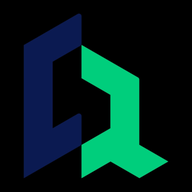
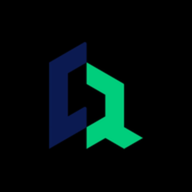
Add files via upload

Changed region(s): [[0.125, 0.0625, 0.875, 0.9375]]

diff --git a/empleados/index.html b/empleados/index.html
@@ -99,12 +99,89 @@ body{font-family:Arial,Helvetica,sans-serif;background:var(--fondo);color:var(--
 .hidden{display:none!important}
 @media(min-height:780px){.hero{padding-top:16px}.logo-wrap{min-height:130px}.logo{width:135px;height:116px}.btn{min-height:60px}}
 </style>
+
+<style id="cq-login-verde-premium">
+.login-overlay{
+  background:
+    radial-gradient(circle at 86% 9%,rgba(71,224,146,.18),transparent 27%),
+    radial-gradient(circle at 12% 20%,rgba(255,255,255,.045),transparent 28%),
+    linear-gradient(160deg,#12392f 0%,#185544 52%,#0d2d25 100%)!important;
+}
+.login-card{
+  max-width:390px!important;
+  padding:24px 22px 22px!important;
+  border-radius:27px!important;
+  background:linear-gradient(145deg,rgba(255,255,255,.105),rgba(255,255,255,.055))!important;
+  border:1px solid rgba(176,255,217,.25)!important;
+  box-shadow:0 26px 70px rgba(0,0,0,.26)!important;
+  backdrop-filter:blur(15px)!important;
+}
+.login-logo{margin:0 auto 10px!important;min-height:132px;display:flex;align-items:center;justify-content:center}
+.cq-logo-svg{display:block;width:145px;height:122px;filter:drop-shadow(0 12px 20px rgba(0,0,0,.18))}
+.panel-logo-svg{width:138px;height:116px}
+.login-card h2{font-size:24px!important;letter-spacing:-.02em!important;margin-top:0!important}
+.login-card .sub{font-size:12.5px!important;margin:7px 0 23px!important;color:#d4e3dd!important;font-weight:500!important}
+.field{margin-bottom:15px!important}
+.field label{
+  font-size:10px!important;
+  color:#7ee9b3!important;
+  margin:0 0 7px 3px!important;
+}
+.field select,.field input{
+  min-height:54px!important;
+  border:1px solid rgba(116,231,175,.42)!important;
+  background:rgba(6,40,31,.38)!important;
+  color:#f2f7f5!important;
+  border-radius:16px!important;
+  padding:13px 15px!important;
+  font-size:14px!important;
+  font-weight:650!important;
+  box-shadow:inset 0 0 0 1px rgba(255,255,255,.015)!important;
+}
+.field select{color:#d9e6e1!important}
+.field select option{color:#17313a;background:#fff}
+.field input::placeholder{color:#c4d3cd;opacity:.82}
+.field select:focus,.field input:focus{
+  border-color:#65e8aa!important;
+  box-shadow:0 0 0 3px rgba(98,230,159,.11)!important;
+}
+.login-btn{
+  min-height:55px!important;
+  margin-top:9px!important;
+  border-radius:16px!important;
+  background:linear-gradient(135deg,#64e9a2,#42bd81)!important;
+  color:#10382d!important;
+  font-size:14px!important;
+  box-shadow:0 10px 24px rgba(53,193,127,.2)!important;
+}
+.login-btn:active{transform:scale(.992)}
+.logo-wrap{min-height:124px!important}
+.logo{display:none!important}
+@media(max-width:420px){
+  .login-card{padding:20px 18px!important;border-radius:24px!important}
+  .login-logo{min-height:116px!important}
+  .cq-logo-svg{width:132px;height:110px}
+  .login-card h2{font-size:22px!important}
+}
+</style>
+
+<style id="cq-password-eye">
+.password-wrap{position:relative;width:100%}
+.password-wrap #loginPass{padding-right:52px!important}
+.password-eye{position:absolute;right:8px;top:50%;transform:translateY(-50%);width:40px;height:40px;border:0;border-radius:11px;background:transparent;color:#d9e6e1;font-size:20px;display:flex;align-items:center;justify-content:center;cursor:pointer;padding:0;z-index:2}
+.password-eye:active{background:rgba(98,230,159,.10)}
+</style>
 </head>
 <body>
 
 <div id="loginOverlay" class="login-overlay">
   <div class="login-card">
-    <div class="login-logo"><img src="logo_cq.png" alt="CQ"></div>
+    <div class="login-logo" aria-label="CQ">
+  <svg class="cq-logo-svg" viewBox="0 0 180 150" role="img" aria-label="CQ">
+    <polygon fill="#102a67" points="26,35 88,0 88,31 55,50 55,104 88,85 88,116 26,150"/>
+    <polygon fill="#00d789" points="88,31 147,65 147,117 174,133 147,149 116,131 88,147 88,116 116,100 116,82 88,66"/>
+  </svg>
+</div>
     <h2>CQ Operaciones</h2>
     <div class="sub">Ingresá con tu usuario y clave</div>
 
@@ -120,7 +197,10 @@ body{font-family:Arial,Helvetica,sans-serif;background:var(--fondo);color:var(--
 
     <div class="field">
       <label>Clave</label>
-      <input id="loginPass" type="password" inputmode="text" autocomplete="current-password" placeholder="Ingresá tu clave">
+      <div class="password-wrap">
+        <input id="loginPass" type="password" inputmode="text" autocomplete="current-password" placeholder="Ingresá tu clave">
+        <button type="button" id="togglePassword" class="password-eye" aria-label="Mostrar contraseña"><svg viewBox="0 0 24 24" width="20" height="20" aria-hidden="true"><path d="M2 12s3.5-6 10-6 10 6 10 6-3.5 6-10 6S2 12 2 12Z" fill="none" stroke="currentColor" stroke-width="1.8"/><circle cx="12" cy="12" r="2.8" fill="none" stroke="currentColor" stroke-width="1.8"/></svg></button>
+      </div>
     </div>
 
     <button id="loginBtn" class="login-btn">🔐 Ingresar</button>
@@ -135,7 +215,12 @@ body{font-family:Arial,Helvetica,sans-serif;background:var(--fondo);color:var(--
   </header>
 
   <main class="hero">
-    <div class="logo-wrap"><img class="logo" src="logo_cq.png" alt="CQ Desarrollos"></div>
+    <div class="logo-wrap" aria-label="CQ Desarrollos">
+  <svg class="cq-logo-svg panel-logo-svg" viewBox="0 0 180 150" role="img" aria-label="CQ Desarrollos">
+    <polygon fill="#102a67" points="26,35 88,0 88,31 55,50 55,104 88,85 88,116 26,150"/>
+    <polygon fill="#00d789" points="88,31 147,65 147,117 174,133 147,149 116,131 88,147 88,116 116,100 116,82 88,66"/>
+  </svg>
+</div>
 
     <section class="title">
       <h1>CQ OPERACIONES</h1>
@@ -393,6 +478,21 @@ onAuthStateChanged(auth, async user=>{
     loginMsg.textContent = "No se pudieron verificar los permisos.";
   }
 });
+</script>
+<script id="cq-password-eye-js">
+(function(){
+ const p=document.getElementById("loginPass"), b=document.getElementById("togglePassword");
+ if(!p||!b)return;
+ b.addEventListener("click",function(){
+   const show=p.type==="password";
+   p.type=show?"text":"password";
+   b.innerHTML=show
+     ? '<svg viewBox="0 0 24 24" width="20" height="20" aria-hidden="true"><path d="M3 3l18 18" fill="none" stroke="currentColor" stroke-width="1.8" stroke-linecap="round"/><path d="M2 12s3.5-6 10-6c2.1 0 3.9.6 5.3 1.4M22 12s-3.5 6-10 6c-2.1 0-3.9-.6-5.3-1.4" fill="none" stroke="currentColor" stroke-width="1.8" stroke-linecap="round"/></svg>'
+     : '<svg viewBox="0 0 24 24" width="20" height="20" aria-hidden="true"><path d="M2 12s3.5-6 10-6 10 6 10 6-3.5 6-10 6S2 12 2 12Z" fill="none" stroke="currentColor" stroke-width="1.8"/><circle cx="12" cy="12" r="2.8" fill="none" stroke="currentColor" stroke-width="1.8"/></svg>';
+   b.setAttribute("aria-label",show?"Ocultar contraseña":"Mostrar contraseña");
+   p.focus();
+ });
+})();
 </script>
 </body>
 </html>
